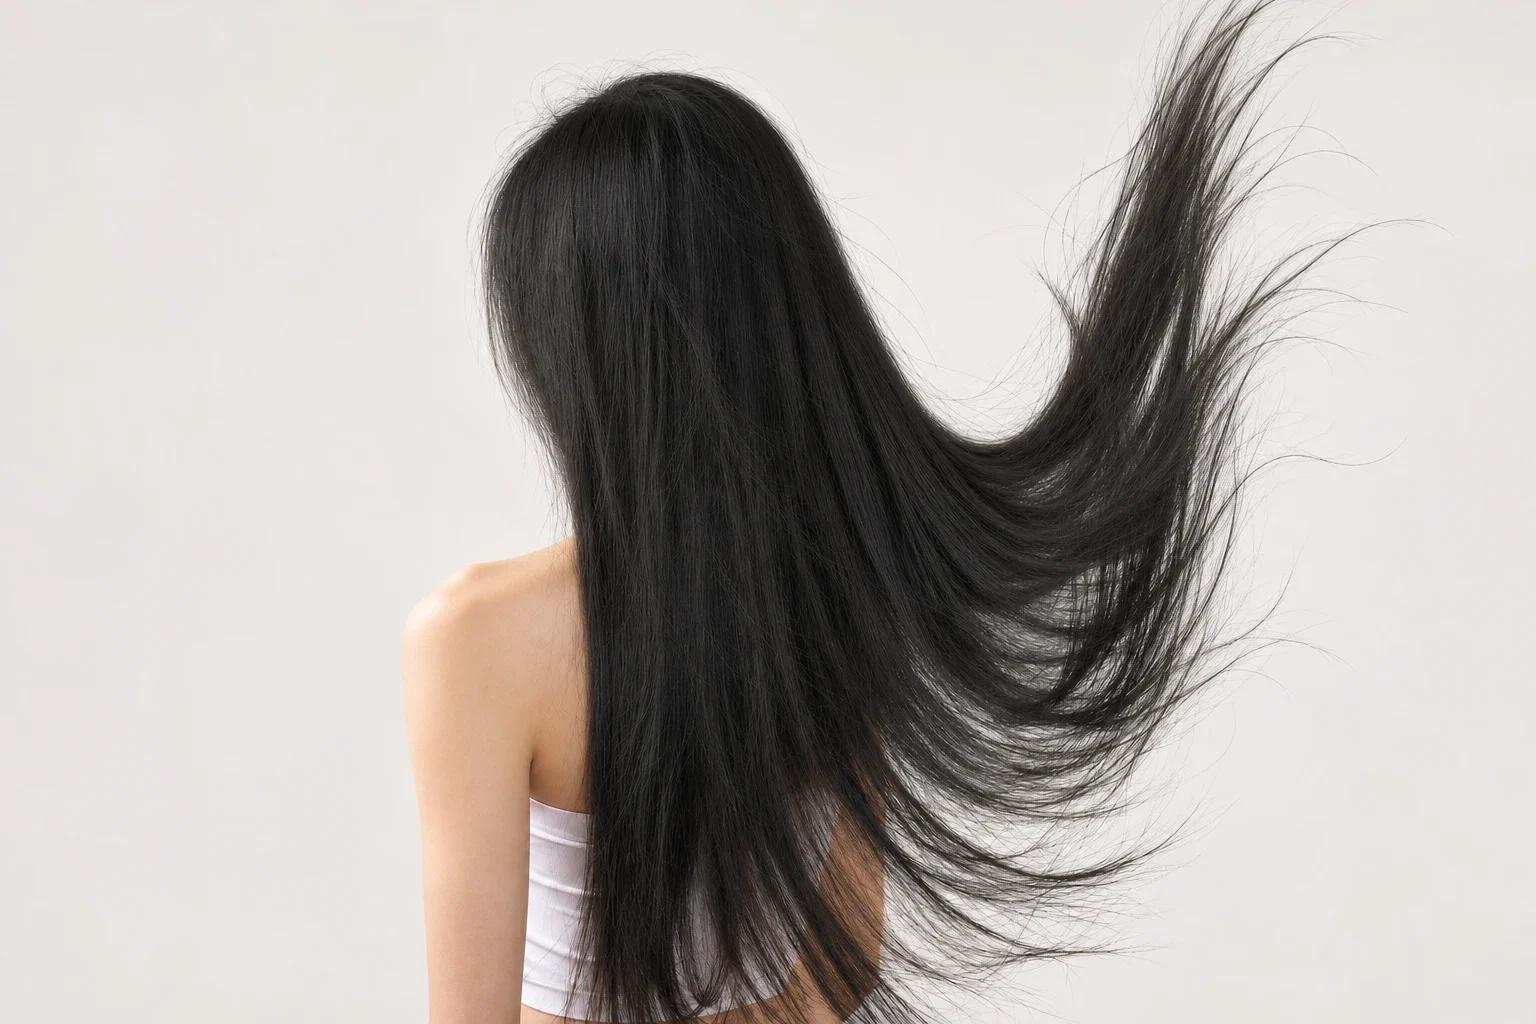
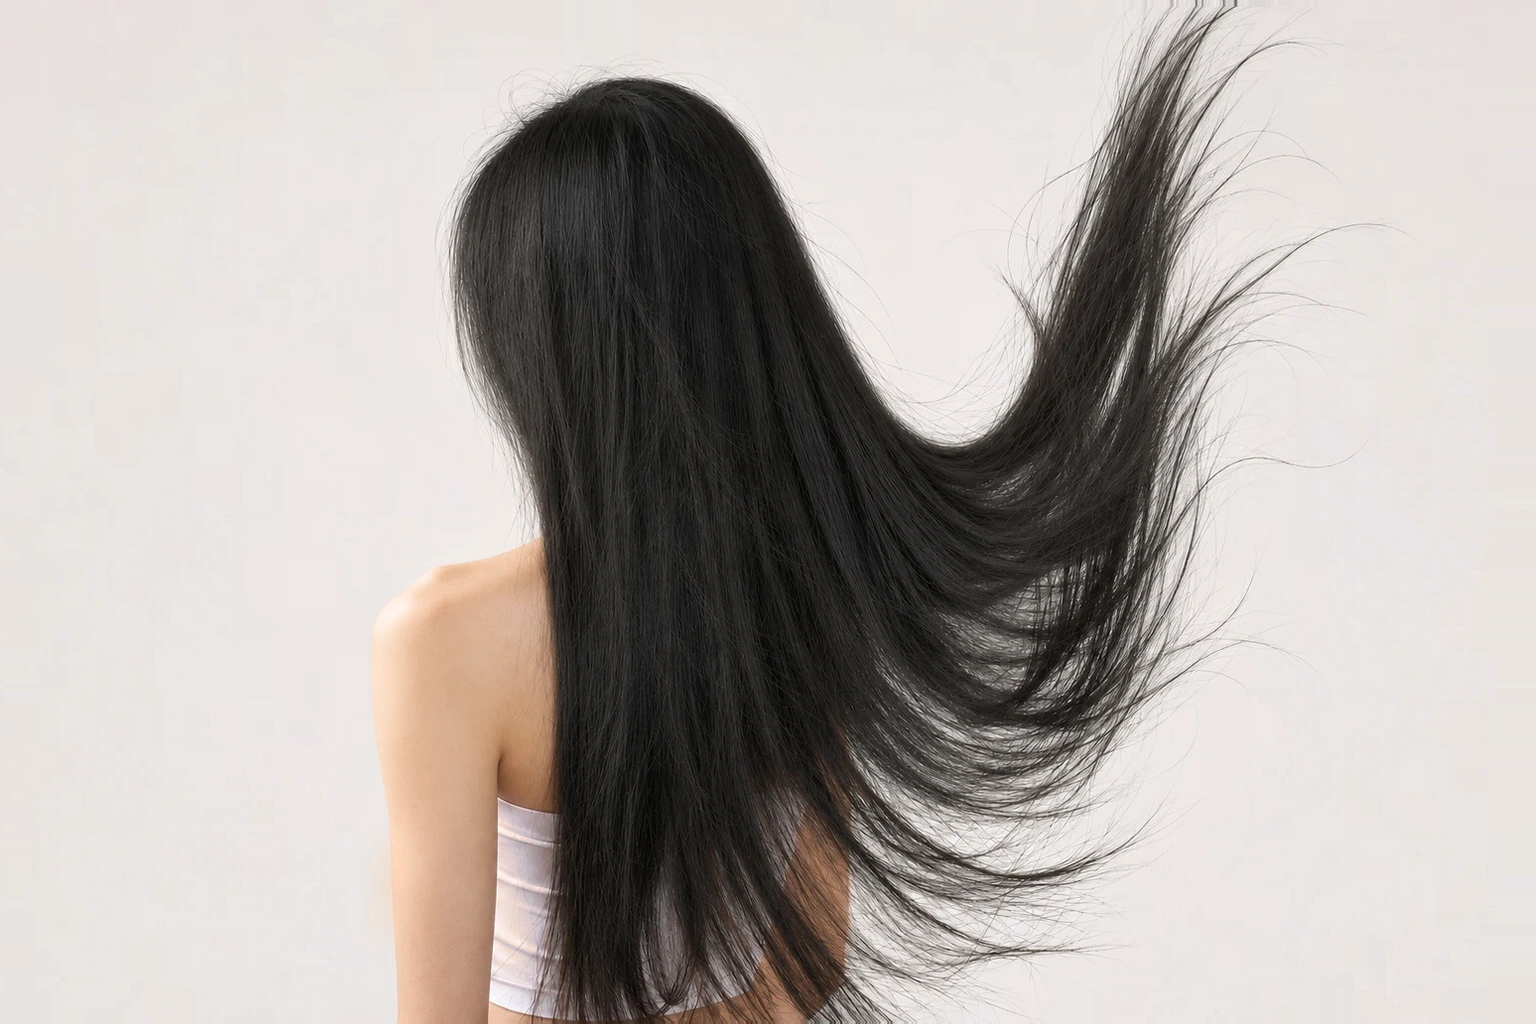
Add files via upload

diff --git a/index.html b/index.html
@@ -152,18 +152,18 @@ img:is([sizes=auto i],[sizes^="auto," i]){contain-intrinsic-size:3000px 1500px}
     <div class="tabs-card reveal" data-tabs>
       <p class="eyebrow"><span class="r-dot"></span>Fórmulas que se notan</p>      <div class="tabs" role="tablist" aria-label="Líneas">
         <button role="tab" id="t1" aria-controls="p1" aria-selected="true" data-c="pink" data-imgs="bottle-0.webp,bottle-1.webp,bottle-2.webp,bottle-3.webp">Reparación</button>
-        <button role="tab" id="t2" aria-controls="p2" aria-selected="false" data-c="sky" data-imgs="p-acid.webp,p-acid.webp,p-acid.webp,p-acid.webp">Alisado</button>
-        <button role="tab" id="t3" aria-controls="p3" aria-selected="false" data-c="red" data-imgs="p-coconut.webp,p-coconut.webp,p-coconut.webp,p-coconut.webp">Nutrición</button>
+        <button role="tab" id="t2" aria-controls="p2" aria-selected="false" data-c="red" data-imgs="p-botox.webp,p-botox.webp,p-botox.webp,p-botox.webp">Alisado</button>
+        <button role="tab" id="t3" aria-controls="p3" aria-selected="false" data-c="sky" data-imgs="p-thermo.webp,p-thermo.webp,p-thermo.webp,p-thermo.webp">Nutrición</button>
       </div>
       <div class="tab-panel" role="tabpanel" id="p1" aria-labelledby="t1">
         <h3 class="display h-md">Shampoo Keratin</h3>        <ul class="actives"><ul class="actives"><li><span class="r-dot"></span><div><strong>Keratina hidrolizada</strong><span>Repara la elasticidad y fortalece cada fibra.</span></div></li><li><span class="r-dot"></span><div><strong>Pro-vitamina B5</strong><span>Hidrata y devuelve cuerpo y brillo.</span></div></li><li><span class="r-dot"></span><div><strong>Aminoácidos reparadores</strong><span>Ideal después de tinturas, decoloraciones y alisados.</span></div></li></ul></ul>
         <a class="btn btn--ink" href="producto-shampoo-keratin.html">Conocelo <span class="arrow">→</span></a>      </div>
       <div class="tab-panel" role="tabpanel" id="p2" aria-labelledby="t2" hidden>
-        <h3 class="display h-md">Shampoo Acid</h3>        <ul class="actives"><ul class="actives"><li><span class="r-dot"></span><div><strong>pH balanceado</strong><span>Sella la cutícula después del alisado.</span></div></li><li><span class="r-dot"></span><div><strong>Ácido láctico</strong><span>Prolonga el efecto liso y suma suavidad.</span></div></li><li><span class="r-dot"></span><div><strong>Pro-vitamina B5</strong><span>Hidrata sin apelmazar.</span></div></li></ul></ul>
-        <a class="btn btn--ink" href="producto-shampoo-acid.html">Conocelo <span class="arrow">→</span></a>      </div>
+        <h3 class="display h-md">Botox Repair</h3>        <ul class="actives"><ul class="actives"><li><span class="r-dot"></span><div><strong>Queratina hidrolizada</strong><span>Reparación intensiva para el pelo dañado y seco.</span></div></li><li><span class="r-dot"></span><div><strong>Colágeno vegetal</strong><span>Nutrición y suavidad, con un brillo extremo.</span></div></li><li><span class="r-dot"></span><div><strong>Ceramidas</strong><span>Controla el frizz y devuelve la manejabilidad.</span></div></li></ul></ul>
+        <a class="btn btn--ink" href="producto-botox-repair.html">Conocelo <span class="arrow">→</span></a>      </div>
       <div class="tab-panel" role="tabpanel" id="p3" aria-labelledby="t3" hidden>
-        <h3 class="display h-md">Shampoo Coconut</h3>        <ul class="actives"><ul class="actives"><li><span class="r-dot"></span><div><strong>Aceite de coco</strong><span>Nutrición profunda para pelo seco u opaco.</span></div></li><li><span class="r-dot"></span><div><strong>Aceite de argán</strong><span>Brillo natural y puntas más suaves.</span></div></li><li><span class="r-dot"></span><div><strong>Vitamina E</strong><span>Protege la fibra del día a día.</span></div></li></ul></ul>
-        <a class="btn btn--ink" href="producto-shampoo-coconut.html">Conocelo <span class="arrow">→</span></a>      </div>
+        <h3 class="display h-md">Thermo Shield Complex</h3>        <ul class="actives"><ul class="actives"><li><span class="r-dot"></span><div><strong>Protección hasta 230°C</strong><span>Cuida el pelo de la planchita, la buclera y el secador.</span></div></li><li><span class="r-dot"></span><div><strong>Keratina hidrolizada</strong><span>Fortalece la fibra cada vez que peinás.</span></div></li><li><span class="r-dot"></span><div><strong>Pro-vitamina B5</strong><span>Brillo y control del frizz.</span></div></li></ul></ul>
+        <a class="btn btn--ink" href="producto-thermo-shield.html">Conocelo <span class="arrow">→</span></a>      </div>
     </div>
   </div>
 </section>

diff --git a/tema/assets/css/rommer.css b/tema/assets/css/rommer.css
@@ -435,7 +435,8 @@ input, select { font: inherit; }
 .ba { position: relative; border-radius: var(--r-lg); overflow: hidden; aspect-ratio: 16 / 9; max-height: 80vh; width: 100%; user-select: none; touch-action: pan-y; cursor: ew-resize; background: var(--sky); }
 .ba img { position: absolute; inset: 0; width: 100%; height: 100%; object-fit: cover; object-position: 50% 30%; pointer-events: none; }
 .ba__before { clip-path: inset(0 calc(100% - var(--pos, 50%)) 0 0); }
-.ba__before img { filter: saturate(.55) contrast(.85) brightness(.92) sepia(.25) blur(.6px); }
+/* Solo si ANTES y DESPUÉS son la misma foto (de ejemplo): se simula el antes. Con fotos reales se ven tal cual. */
+.ba--same .ba__before img { filter: saturate(.55) contrast(.85) brightness(.92) sepia(.25) blur(.6px); }
 .ba__line { position: absolute; top: 0; bottom: 0; left: var(--pos, 50%); width: 3px; margin-left: -1.5px; background: var(--cream); }
 .ba__handle { position: absolute; top: 50%; left: var(--pos, 50%); width: 64px; height: 64px; margin: -32px 0 0 -32px; border-radius: 50%; background: var(--yellow); display: grid; place-items: center; box-shadow: 0 10px 30px rgba(0,0,0,.25); transition: transform .3s var(--bounce); }
 .ba:hover .ba__handle { transform: scale(1.1) rotate(-10deg); }

diff --git a/tema/assets/js/rommer.js b/tema/assets/js/rommer.js
@@ -286,7 +286,7 @@
       var on = $(".js-cp-on", d), op = $(".js-cp-open", d), fm = $(".js-cp-form", d), msg = $(".js-cp-msg", d);
       var needMin = CP && CP.on && CP.min && sub < CP.min;
       on.hidden = !(CP && CP.code && !CP.on); on.textContent = "🎁 " + tx("cpUse", "Usar mi cupón") + " " + (CP ? CP.code : "");
-      op.hidden = !!(CP && CP.code) || !fm.hidden;
+      op.hidden = !!(CP && CP.code && CP.on) || !fm.hidden; // con un cupón guardado sin usar, igual se puede escribir otro
       if (needMin) { msg.textContent = tx("cpMin", "Este cupón vale en compras desde {monto}.").replace("{monto}", money(CP.min)); msg.hidden = false; }
       else if (kitBest) { msg.textContent = tx("cpKitNote", "Tu kit ya tiene un descuento mayor: tu cupón queda guardado para otra compra."); msg.hidden = false; msg.classList.add("cp-msg--ok"); }
       else if (msg.dataset.keep !== "1") { msg.hidden = true; }

diff --git a/README.md b/README.md
@@ -14,6 +14,8 @@ Vista navegable de la tienda online de **Rommer**, generada desde el tema de Wor
 - **Franja animada:** Fórmula profesional · Industria argentina · Resultados que se sienten · Para el salón y para vos.
 - **Los elegidos de Rommer** (antes “Los más pedidos”).
 - **Tu rutina Rommer** (antes “El Método”): “Tu rutina. Tus reglas.”, bajada y los 3 pasos con sus textos nuevos.
+- **Fórmulas que se notan:** Alisado → Botox Repair y Nutrición → Thermo Shield Complex (Reparación sigue con Shampoo Keratin).
+- **Changuito:** con un cupón guardado se puede escribir otro código (antes solo aparecía “Usar mi cupón”).
 - **Haircare for hot girls:** “hot girls” separado, textos nuevos y botón “Sumate a rommer’s club”.
 - **Rommer en tu salón:**
   - bajada y beneficios nuevos;
@@ -24,7 +26,7 @@ Vista navegable de la tienda online de **Rommer**, generada desde el tema de Wor
 - **Reglas del cupón (nuevo):** el cupón de bienvenida es solo para la primera compra, de un solo uso y con su email; no se suma con el descuento por kit (se aplica el mayor) y sí con la transferencia.
 - **Footer profesional (nuevo):** links legales (Términos, Privacidad, Defensa del consumidor), Botón de arrepentimiento con su formulario y créditos de diseño y desarrollo de ALTO.
 - **Producto nuevo: Botox Repair** (tratamiento de reparación intensiva), con su ficha y en el carrusel “Los elegidos de Rommer”.
-- **Antes / después:** fotos reales de la clienta (versión fondo claro, la que mejor combina con la paleta de la web).
+- **Antes / después:** fotos reales, alineadas (cabeza y hombros en el mismo lugar al mover la línea), con el mismo fondo blanco y sin filtros: se ven en su calidad original.
 - **Haircare for hot girls:** la foto se mueve despacio simulando un video. En WordPress se puede cargar un video en su lugar.
 - **Botón “Hacé el test”** de Tu rutina: se sacó.
 - **Sección “¿Y si lo profesional no tuviera que verse profesional?”:** se sacó de esta vista. En WordPress queda oculta para usarla más adelante.
